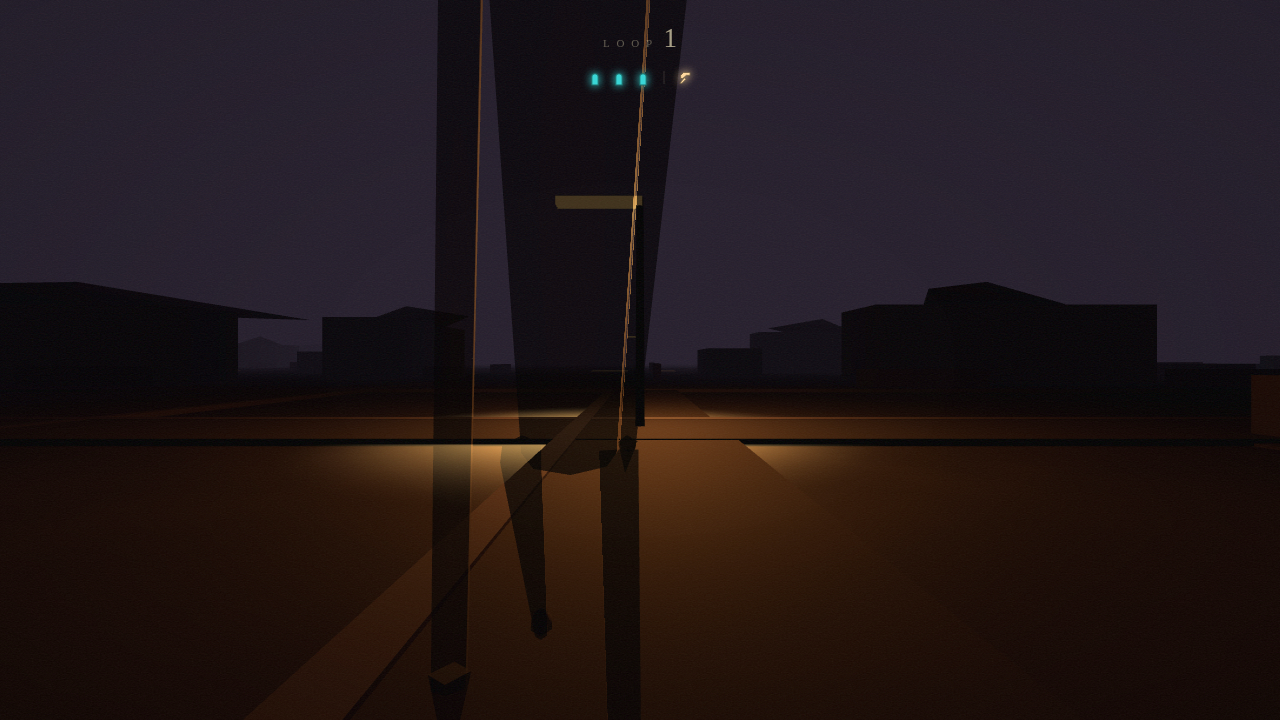
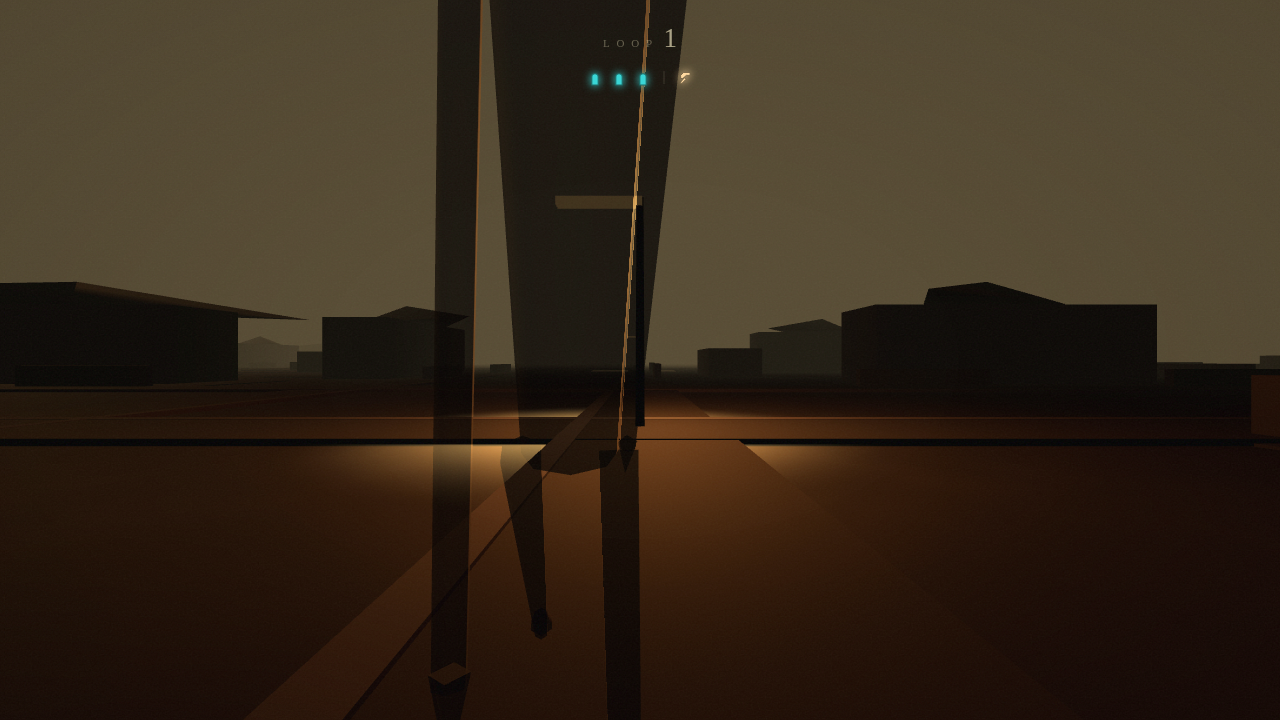
iter2(1) review: fixes
Review of 1a444f8. Verdict: FIXED. The retune is the right change for the
right reason and its three load-bearing properties survive in the rendered
frames; two blockers were real and are fixed here.

BLOCKER 1 - two gate tests were nested inside another. verify.mjs:6441
opened the fog-under-sky test and never closed it: 6452 closed only the
for loop and 6454 opened the next test, while a stray `})` at 6543 is what
actually closed the fog test. The exposure-curve and constructor-exposure
tests were therefore registered from inside the fog test's callback.
node --check passed and 191/191 was green, because nothing in the fog test
fails at HEAD. Probed on a full tree copy by breaking only fogStops[2] to
sit above skyStops[2]:

  before: 186/189 passed, and the two exposure tests appear 0 times
          (denominator fell 191 -> 189; they never ran)
  after:  188/191 passed, and they appear 2 times
          (denominator held; a regression now disarms nothing)

The tell in the old output was ordering: the two nested tests printed
before the fog test that contained them.

BLOCKER 2 - the pass shipped no capture artifacts. 1a444f8 touched 5
source files and no screenshot; the committed street.png is byte-identical
to the pre-pass frame, so main still showed the violet world the pass
exists to replace and every luma figure in its message described a build
nobody could see. Regenerated: 14 captured, 0 failed, mean luma 57.006%.
[…]

diff --git a/src/game/world.js b/src/game/world.js
@@ -117,10 +117,11 @@ const LAMP_RADIUS = 40
  * as `1.02 - 0.14 * t * t`.
  *
  * Two things changed and they are different in kind. The base is up 7% because
- * the sky ramp itself came up 3.0x to 6.2x in luma and ACES at the old 0.95 was
- * compressing a palette that no longer needed compressing. The *shape* is the
- * actual fix: the cut is now quadratic, so it is almost free through Act I and
- * Act II (`t = 0.5` costs 1.75% where the old curve cost 8.5%) and lands almost
+ * the sky ramp itself came up 1.6x to 3.0x in 8-bit luma (3.0x to 6.2x linear)
+ * and ACES at the old 0.95 was compressing a palette that no longer needed
+ * compressing. The *shape* is the actual fix: the cut is now quadratic, so it is
+ * almost free through Act I and Act II (`t = 0.5` costs 3.5% of the 1.02 base
+ * where the old curve cost 8.9% of its 0.95) and lands almost
  * all of itself on the last third, which is the only stretch of the run where
  * §3.7 wants the world visibly tightening.
  *
@@ -553,11 +554,12 @@ export class LongQuietGame {
     //
     // AFTER `EXPOSURE_BASE - EXPOSURE_CUT * t * t` — the same endpoints' intent
     // with the bite taken out of the middle. The quadratic matters more than the
-    // endpoints: at t = 0.5 the old curve had already given up 8.5% while the
-    // player is still in Act II hunting three portals, and the new one has given
-    // up 1.75%. The curve is therefore *flat where the game is played* and only
-    // closes in the last third, which is the finale's job — and §3.7's promise
-    // that the world visibly tightens survives, just at 0.88 rather than 0.78.
+    // endpoints: at t = 0.5 the old curve had already given up 8.9% of its 0.95
+    // while the player is still in Act II hunting three portals, and the new one
+    // has given up 3.5% of its 1.02. The curve is therefore *flat where the game
+    // is played* and only closes in the last third, which is the finale's job —
+    // and §3.7's promise that the world visibly tightens survives, just at 0.88
+    // rather than 0.78.
     this.renderer.toneMappingExposure = EXPOSURE_BASE - EXPOSURE_CUT * t * t
   }
 

diff --git a/src/game/streetView.js b/src/game/streetView.js
@@ -104,7 +104,10 @@ import { OCCLUDER_KINDS } from './creature.js'
  *
  * The brief was the Backrooms reference (67ktSmxCniA): a mono-yellow sodium haze,
  * *lighter* than what shipped, and still night. So both ramps moved to a sodium
- * ochre (hue ~36°, R > G > B) and up by 3.0x to 9.8x in relative luminance:
+ * ochre (hue ~36°, R > G > B) and up by 3.0x to 9.8x in *linear* relative
+ * luminance — the smallest lift is the sky's own mid stop, the largest is the fog
+ * mid stop. (In 8-bit Rec. 601 the same lifts are only 1.6x to 3.3x, which is
+ * why the two are quoted separately below: the digits in the table are 8-bit.)
  *
  *   skyStops   0x2a2233 / 0x4a3550 / 0x12101a  ->  0x6b5836 / 0x7a6440 / 0x3f3320
  *     luma        38.3  / 62.4  / 17.7          ->   89.9 / 102.5 / 52.5  (0-255)

diff --git a/REVIEW-pass-1.md b/REVIEW-pass-1.md
@@ -1,0 +1,179 @@
+# REVIEW — iteration 2, pass 1
+
+- **Commit under review:** `1a444f8` — "iter2(1): yellow-tinted cinematic dusk - sky, fog, hemisphere, exposure"
+- **Reviewer verdict:** **FIXED** — the design is right and is now on the evidence; two defects found and repaired in `iter2(1) review: fixes`.
+- **Gate at verdict time:** 191/191 pure, 44/44 world, lint clean, build green, 14/14 captures.
+
+## What the pass does
+
+Moves both atmosphere ramps out of violet and into sodium ochre, and flattens the
+exposure curve so the world is no longer paying for darkness during the acts where
+the player is supposed to be looking at it.
+
+| | before | after |
+| --- | --- | --- |
+| `skyStops` | `0x2a2233` / `0x4a3550` / `0x12101a` | `0x6b5836` / `0x7a6440` / `0x3f3320` |
+| `fogStops` | `0x241d2a` / `0x1e1826` / `0x141018` | `0x574a30` / `0x6a5938` / `0x332a1c` |
+| hemisphere | `0.5 - 0.22t` | `0.85 - 0.18t` |
+| horizon key | `0x6b4a6b` @ 0.32 | `0xffc27a` @ 0.34 |
+| exposure | `0.95 - 0.17t` | `1.02 - 0.14t²` |
+
+The diagnosis in the commit message is correct and is the right diagnosis: the
+report was "the world is too dark to see things", and the cause was a **hue**
+before it was a level. A violet sky reflects nothing amber back at a street lit
+entirely by amber, so raising the violet would have raised the wrong thing.
+
+## The three claims that had to survive, and whether they did
+
+Each was checked against rendered frames, not against the commit message.
+
+1. **The ramp still closes.** Measured sky stop 0 is 1.71× stop 2 in 8-bit
+   Rec. 601 and 2.94× in linear relative luminance. Confirmed.
+2. **The mid stop is still the crest.** `0x7a6440` (luma 102.5) is above stop 0
+   (89.8), so the sky still reads as lit overcast rather than a flat wash.
+   Confirmed, and the new pin test holds it.
+3. **The creature is still a hole in the fog.** This is the one that mattered,
+   because a whole-world brightening is exactly the move that can erase the
+   subject. Scene-half percentiles on `creature-stalking`:
+
+   | | min | p0.1 | p1 | p5 | median | p95 |
+   | --- | --- | --- | --- | --- | --- | --- |
+   | before | 5 | 7 | 9 | 11 | 20 | 57 |
+   | after | 4 | 7 | 10 | 14 | 24 | 62 |
+
+   The 0.1 percentile is **unchanged at 7** while the median rose 20 → 24 and p95
+   rose 57 → 62. The atmosphere lifted and the subject did not. The trick worked.
+
+## Findings
+
+### 1. BLOCKER — two gate tests were nested inside another, and silently vanished on failure
+
+`verify.mjs:6441` opened `test('the fog is darker than the sky at every stop …')`.
+Its closing `})` was missing: line 6452 closed only the `for` loop, line 6453 was
+blank, and line 6454 opened the next `test(`. The stray `})` at 6543 is what
+actually closed the fog test. So **"the ambient and exposure curves…" and "the
+constructor exposure is the curve at dusk 0" were registered from inside the fog
+test's callback.**
+
+`node --check` passed and the suite reported 191/191, because at HEAD nothing in
+the fog test fails. The bug only appears when the fog assertion throws — and then
+the two nested tests are never reached, so they never register, never run, and
+never report. A regression in the silhouette rule silently disarms the entire
+exposure/ambient section of the gate.
+
+Reproduced on a full copy of the tree, breaking **only** the fog-under-sky
+property (`fogStops[2] = 0x7a6440`, above `skyStops[2]`):
+
+```
+before the fix:  186/189 checks passed — 3 FAILED     (denominator fell 191 -> 189)
+
+### 2. BLOCKER — the pass shipped no capture artifacts, so its own evidence was unverifiable
+
+`git show --stat 1a444f8` touches 5 files: `GAMEDESIGN.md`, `streetView.js`,
+`world.js`, `verify.mjs`, `verify-world.mjs`. **No screenshot and no
+`benchmark/captures.json`.** The committed `street.png` is byte-identical to the
+pre-pass frame (sha256 `5ba7da49…`), so `main` was still showing the violet world
+the pass exists to replace, and every luma figure in the commit message described
+a build nobody could see.
+
+This matters more than a missing artifact usually does, because this benchmark's
+result tables are built from those PNGs, and `verify.mjs`'s own anti-rotation
+check only asserts the files *exist* and are over 20 KB. A stale frame passes it.
+
+**Fix:** regenerated the gallery. `npm run capture` → **14 captured, 0 failed**,
+mean luma 57.006%, tightest margin `win` at 10.1% against a 6% floor. Measured
+before → after on the lower scene:
+
+| frame | before | after |
+| --- | --- | --- |
+| `title` | 4.60% | 8.19% |
+| `street` | 52.80% | 74.09% |
+| `creature-stalking` | 63.53% | 84.28% |
+
+Note `street` before is **52.8%**, not the 56.3% quoted in the commit message —
+that figure does not match the committed frame, and full-frame luma on the same
+file is 71.4%, so 56.3% appears to be from neither measurement. The direction and
+rough magnitude of the claim hold; the specific before-number is wrong.
+
+Consequence worth recording: `README.md` claimed `title` was the tightest frame
+at 4.6% (+1.1) and mean luma was 46.237%. After the retune the binding
+constraint **moves off `title` for the first time since slice 16** — `win` is
+tightest at +4.1, with `title` second at +4.69. README updated to match.
+
+### 3. MINOR — the exposure comparison was arithmetically wrong in three places
+
+`world.js` and `GAMEDESIGN.md` claimed the new curve "costs 1.75%" at `t = 0.5`
+where the old cost 8.5%. Measured:
+
+- old: `0.95 − 0.17(0.5)` = 0.865, i.e. **8.9%** of its 0.95 base surrendered
+- new: `1.02 − 0.14(0.5)²` = 0.985, i.e. **3.5%** of its 1.02 base surrendered
+
+1.75% is half the real figure (it is the drop measured against 1.0 while the base
+is 1.02, then halved again somewhere), and 8.5% should be 8.9%. The *claim* the
+numbers support — the new curve is far flatter through Act I — is still true, and
+more true than stated. Corrected in all three locations.
+
+### 4. MINOR — "3.0x to 9.8x in relative luminance" was ambiguous, not wrong
+
+The range is correct **only** in linear relative luminance (sky 2.97×–6.15×, fog
+4.18×–9.81×). In 8-bit Rec. 601 — the space every other number in the same
+comment is quoted in, and the space `tools/png-luma.mjs` measures in — the lifts
+are only 1.64×–3.30×. A reader checking the claim against the luma table directly
+below it would find a contradiction. The comment now states which space it means
+and gives both.
+
+## What the pass got right, specifically
+
+- **Naming the constants.** `EXPOSURE_BASE`/`EXPOSURE_CUT` exist so the
+  constructor and `_applyDusk` can be asserted to agree. A literal in one writer
+  and a constant in the other is a real bug class, and it is now gated.
+- **Asserting the call site, not just the constants.** The commit's own account of
+  finding this by reverting the curve and watching the test stay green is the
+  right instinct, and the `[^\n;]` tightening of the regex (a whitespace-permissive
+  character class let the match run onto the next line) is a careful fix.
+- **Splitting loose properties from a value pin.** Warm / lighter / closes /
+  fog-under-sky are properties that should survive a future mood pass; the exact
+  six hexes are a decision that should fail loudly when changed. Having both, with
+  the pin's failure message naming the remedy, is the correct arrangement.
+- **Keeping fog below sky rather than matching it.** The one deliberate
+  departure from "mono-yellow", and it is the departure that makes §12.1's
+  silhouette rule possible. Gated pairwise at all three stops, not just at
+  whichever stop the captures happen to show.
+- **Not flattening the sodium grid.** Hemisphere at 0.85 rather than 1.0, on the
+  reasoning that the lamps have to stay the brightest thing on the road. Correct,
+  and visible in the captures: the pools still read as a grid you steer by.
+
+## Residual risk
+
+- The two ramp families are pinned to exact hexes, so pass 2 will trip the pin on
+  purpose. That is the intended behaviour; the pin's message says so.
+- The creature silhouette is currently protected by a *source* property
+  (fog < sky) plus a *rendered* observation I made by hand. Nothing in the gate
+  measures creature-vs-background separation in a frame. A future pass that lifts
+  the fog without lifting the sky could satisfy every existing check and still cost
+  the subject its read. **This is the most valuable gate to add next.**
+- `README.md`'s gallery prose is hand-maintained and was already stale before this
+  pass. It is corrected here, but nothing keeps it honest.
+
+## Verdict
+
+**FIXED.** The retune is the right change for the right reason, the three
+properties it had to preserve are preserved in the rendered frames, and the gate
+genuinely grew. Two blockers were real: a test-nesting bug that let a regression
+disarm two other tests without a word, and a whole-gallery omission that left the
+pass's own evidence unviewable. Both are fixed here, the exposure arithmetic is
+corrected, and `npm run check` is green at 191/191 and 44/44.
+
+                 grep for the two exposure tests: 0   (they never ran)
+after the fix:   188/191 checks passed — 3 FAILED     (denominator held at 191)
+                 grep for the two exposure tests: 2   (they still ran)
+```
+
+The tell in the original output is the ordering: "ambient and exposure" and
+"constructor exposure" were printed *before* the fog test that contains them.
+
+**Fix:** added the missing `})` after the `for` loop and removed the orphan at
+6543. Section now reports in source order and the denominator is stable under
+failure. This is the same bug class the commit message already caught once (the
+exposure test that "never read the call site") — found again by probing rather
+than reading, which is the only way it shows up.

diff --git a/README.md b/README.md
@@ -115,8 +115,8 @@ Slices 01–07 built the pure core; 09 was the v2 swap; 10–15 the game systems
 `npm run capture` photographs all fourteen §16.5 states from a headless Chrome
 (SwiftShader) at seed 1337. Every frame is measured before it is kept and is
 rejected if it falls under its luma floor, so a black rectangle can never sit in
-the gallery wearing a view's name. Mean luma **46.237%** against a 6% floor; the
-tightest margin is `title` at 4.6% against its 3.5% floor.
+the gallery wearing a view's name. Mean luma **57.006%** against a 6% floor; the
+tightest margin is `win` at 10.1% against its 6% floor.
 
 <table>
   <tr><td><img src="benchmark/screenshots/title.png" alt="Title"><br>Title</td><td><img src="benchmark/screenshots/street.png" alt="Street"><br>Street</td></tr>
@@ -212,9 +212,10 @@ npm run dev
   requires integers and no counter was readable. `0` here means **unrecorded**,
   not zero. AGENTS.md asks for non-cache and cache-read tokens separately; that
   split cannot be supplied truthfully yet.
-- **`title` is the tightest frame** at 4.6% against a 3.5% floor (+1.1). It is a
-  deliberately dark start screen, but it is the first thing to re-tune if a
-  future renderer drifts darker.
+- **`win` is the tightest frame** at 10.1% against a 6% floor (+4.1), followed by
+  `title` at 8.19% against its 3.5% floor (+4.69). Under iteration 2 pass 1 the
+  sodium retune lifted every frame, and the binding constraint moved off `title`
+  for the first time — `title` had been the tightest margin since slice 16.
 - **Two open oxlint warnings** remain, both pre-existing and non-fatal: an
   unused `dt` parameter in `world.js:698`, and a fast-refresh export warning in
   `capture/main.jsx:137`.

diff --git a/GAMEDESIGN.md b/GAMEDESIGN.md
@@ -684,11 +684,11 @@ states (`verify.mjs`, "Sodium dusk (iteration 2, pass 1)"):
 
 The exposure curve is quadratic rather than linear, and that is the substance of
 the fix rather than its endpoints: Act I and Act II are played between `t = 0` and
-`t ≈ 0.66`, and the previous linear curve had already surrendered 8.5% of its
-exposure by `t = 0.5` — charging the player for darkness during the part of the
-run where the design wants them looking at the street. The new curve costs 1.75%
-there and spends almost all of its fall on the finale, which is the only stretch
-of the run where §3.7 wants the world tightening.
+`t ≈ 0.66`, and the previous linear curve had already surrendered 8.9% of its 0.95
+base by `t = 0.5` — charging the player for darkness during the part of the
+run where the design wants them looking at the street. The new curve costs 3.5% of
+its 1.02 base there and spends almost all of its fall on the finale, which is the
+only stretch of the run where §3.7 wants the world tightening.
 
 The creature being a silhouette rather than a model is deliberate: at fog
 distances a low-detail dark mass with a hard rim reads far more disturbingly than
